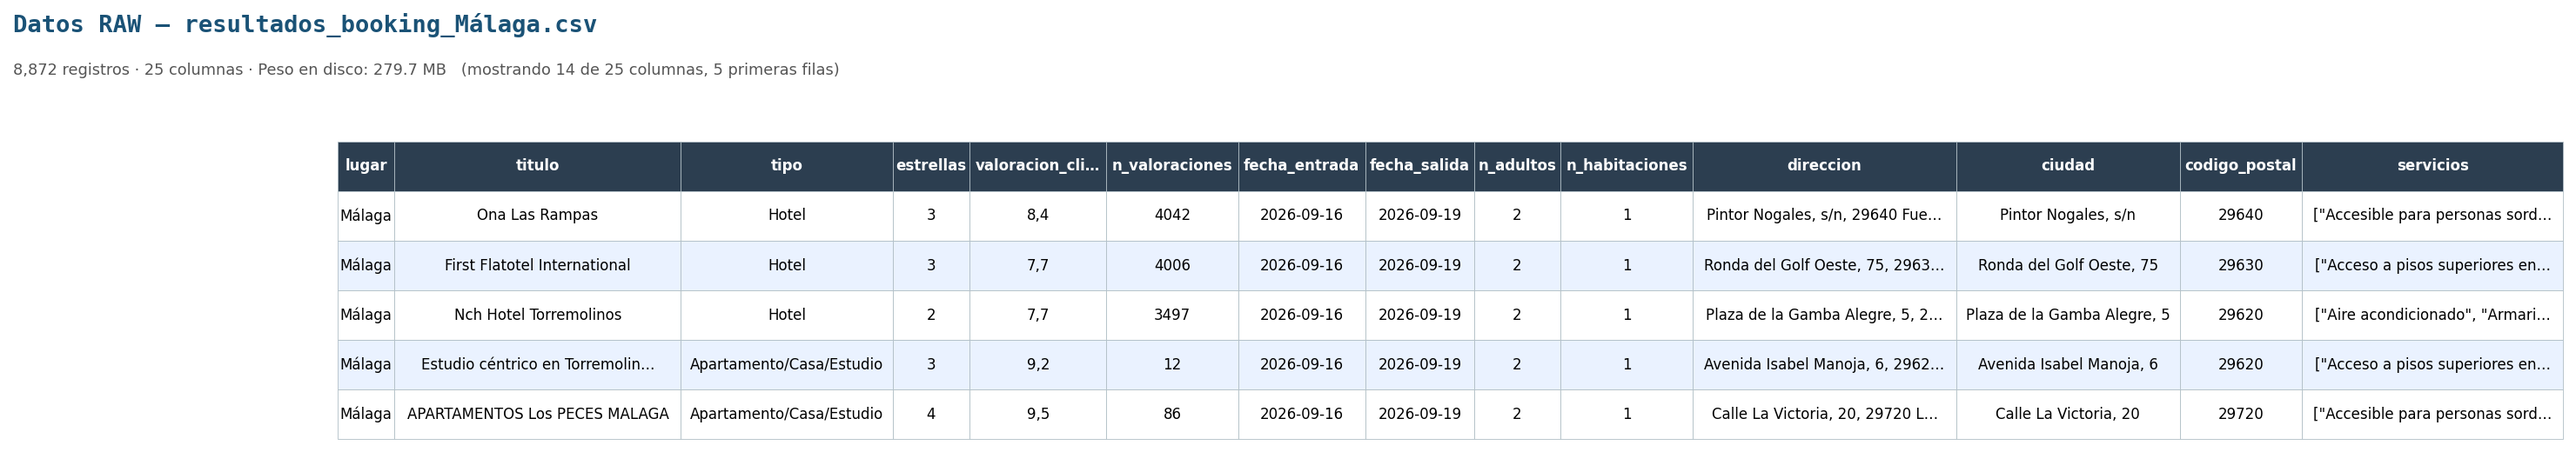
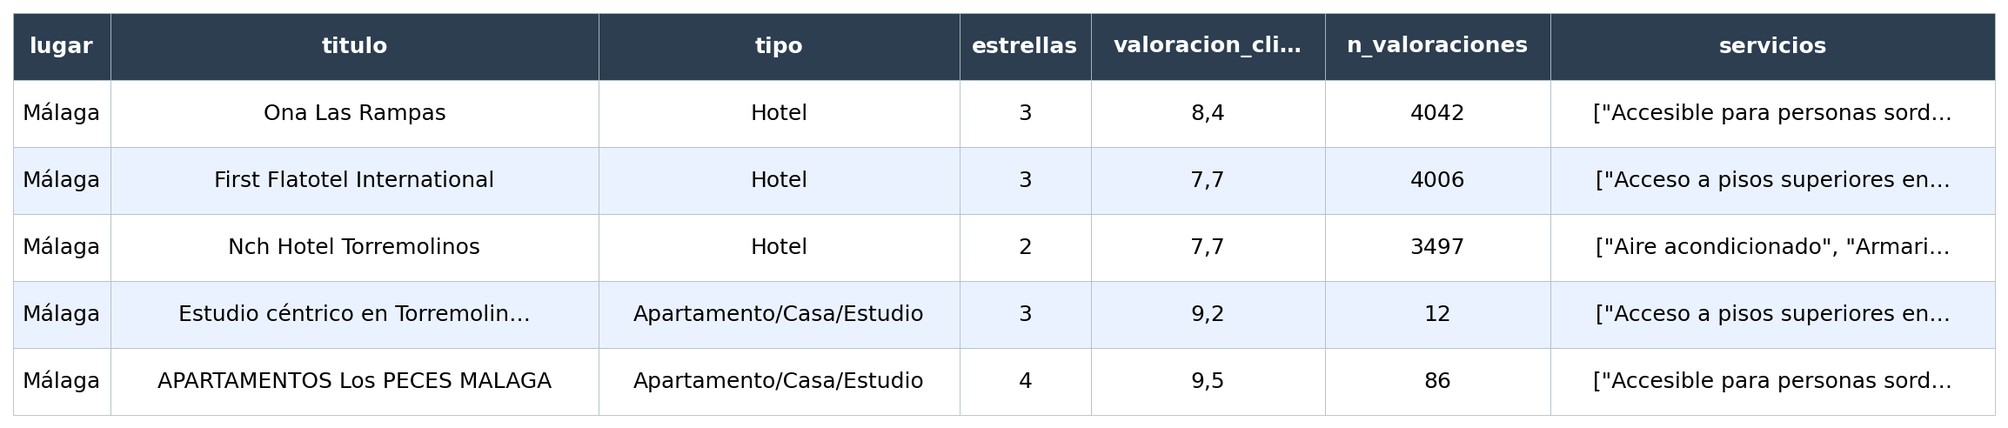
fix: Tablas estilizadas sin títulos ni comentarios para una mejor visualización en la memoria

diff --git a/TFG_Chollos/Graficos/preview_datasets.py b/TFG_Chollos/Graficos/preview_datasets.py
@@ -27,16 +27,12 @@ logger = configurar_logger(__name__)
 
 # Columnas a mostrar según el tipo de dataset
 COLS_RAW = [
-    'lugar', 'titulo', 'tipo', 'estrellas', 'valoracion_clientes',
-    'n_valoraciones', 'fecha_entrada', 'fecha_salida',
-    'n_adultos', 'n_habitaciones', 'direccion', 'ciudad', 'codigo_postal',
-    'servicios',
+    'lugar', 'titulo', 'tipo', 'estrellas',
+    'valoracion_clientes', 'n_valoraciones', 'servicios',
 ]
 COLS_PROCESSED = [
-    'provincia', 'localidad', 'tipo', 'estrellas', 'valoracion_clientes',
-    'n_valoraciones', 'distancia_centro_km', 'Piscina', 'Parking',
-    'Gimnasio', 'Restaurante', 'Aire', 'tamaño_habitacion',
-    'fecha_disponible', 'dias_restantes', 'es_finde', 'precio',
+    'provincia', 'localidad', 'tipo', 'estrellas',
+    'distancia_centro_km', 'tamaño_habitacion', 'precio',
 ]
 N_FILAS = 5
 
@@ -102,30 +98,21 @@ def generar_preview(ruta: Path, titulo: str, ruta_salida: Path,
     col_labels = [c[:14] + '…' if len(c) > 14 else c for c in cols]
 
     # Tamaño de figura
-    fig_w = max(22, n_mostrar * 1.45)
-    fig_h = 3.8
+    fig_w = max(18, n_mostrar * 2.8)
+    fig_h = 4.0
     fig, ax = plt.subplots(figsize=(fig_w, fig_h))
     fig.patch.set_facecolor('white')
     ax.axis('off')
-
-    subtitulo = (
-        f'{n_registros:,} registros · {n_cols} columnas · '
-        f'Peso en disco: {peso_mb:.1f} MB'
-        f'   (mostrando {n_mostrar} de {n_cols} columnas, {N_FILAS} primeras filas)'
-    )
-    fig.text(0.012, 0.97, titulo,    fontsize=13, fontweight='bold',
-             color=COLOR_HEADER_TEXTO, va='top', fontfamily='monospace')
-    fig.text(0.012, 0.87, subtitulo, fontsize=8.5, color='#555555', va='top')
 
     table = ax.table(
         cellText=df_str.values,
         colLabels=col_labels,
         cellLoc='center',
         loc='center',
-        bbox=[0, 0, 1, 0.78],
+        bbox=[0, 0, 1, 1],
     )
     table.auto_set_font_size(False)
-    table.set_fontsize(8)
+    table.set_fontsize(12)
     table.auto_set_column_width(col=list(range(n_mostrar)))
 
     for (fila, col), cell in table.get_celld().items():
